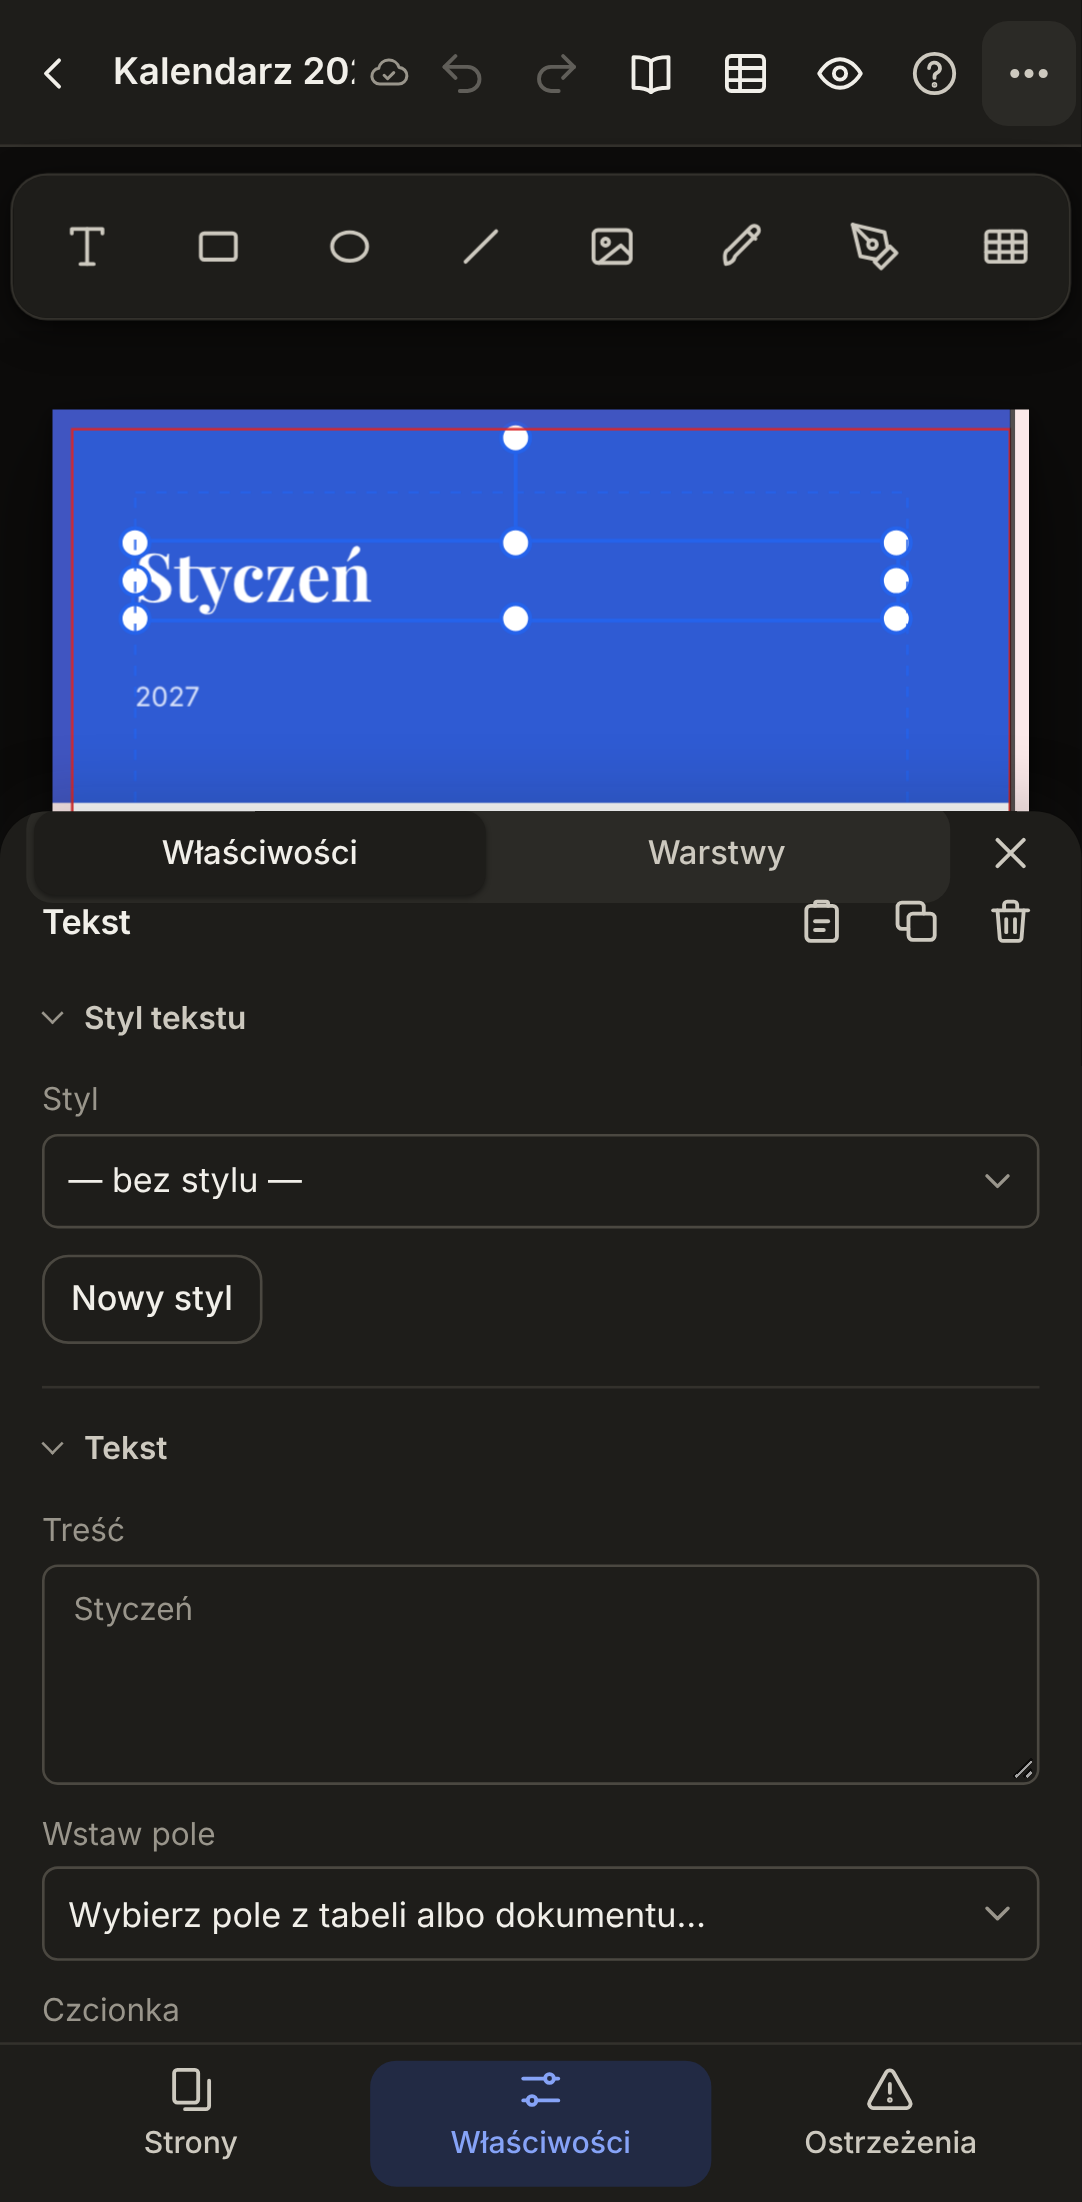
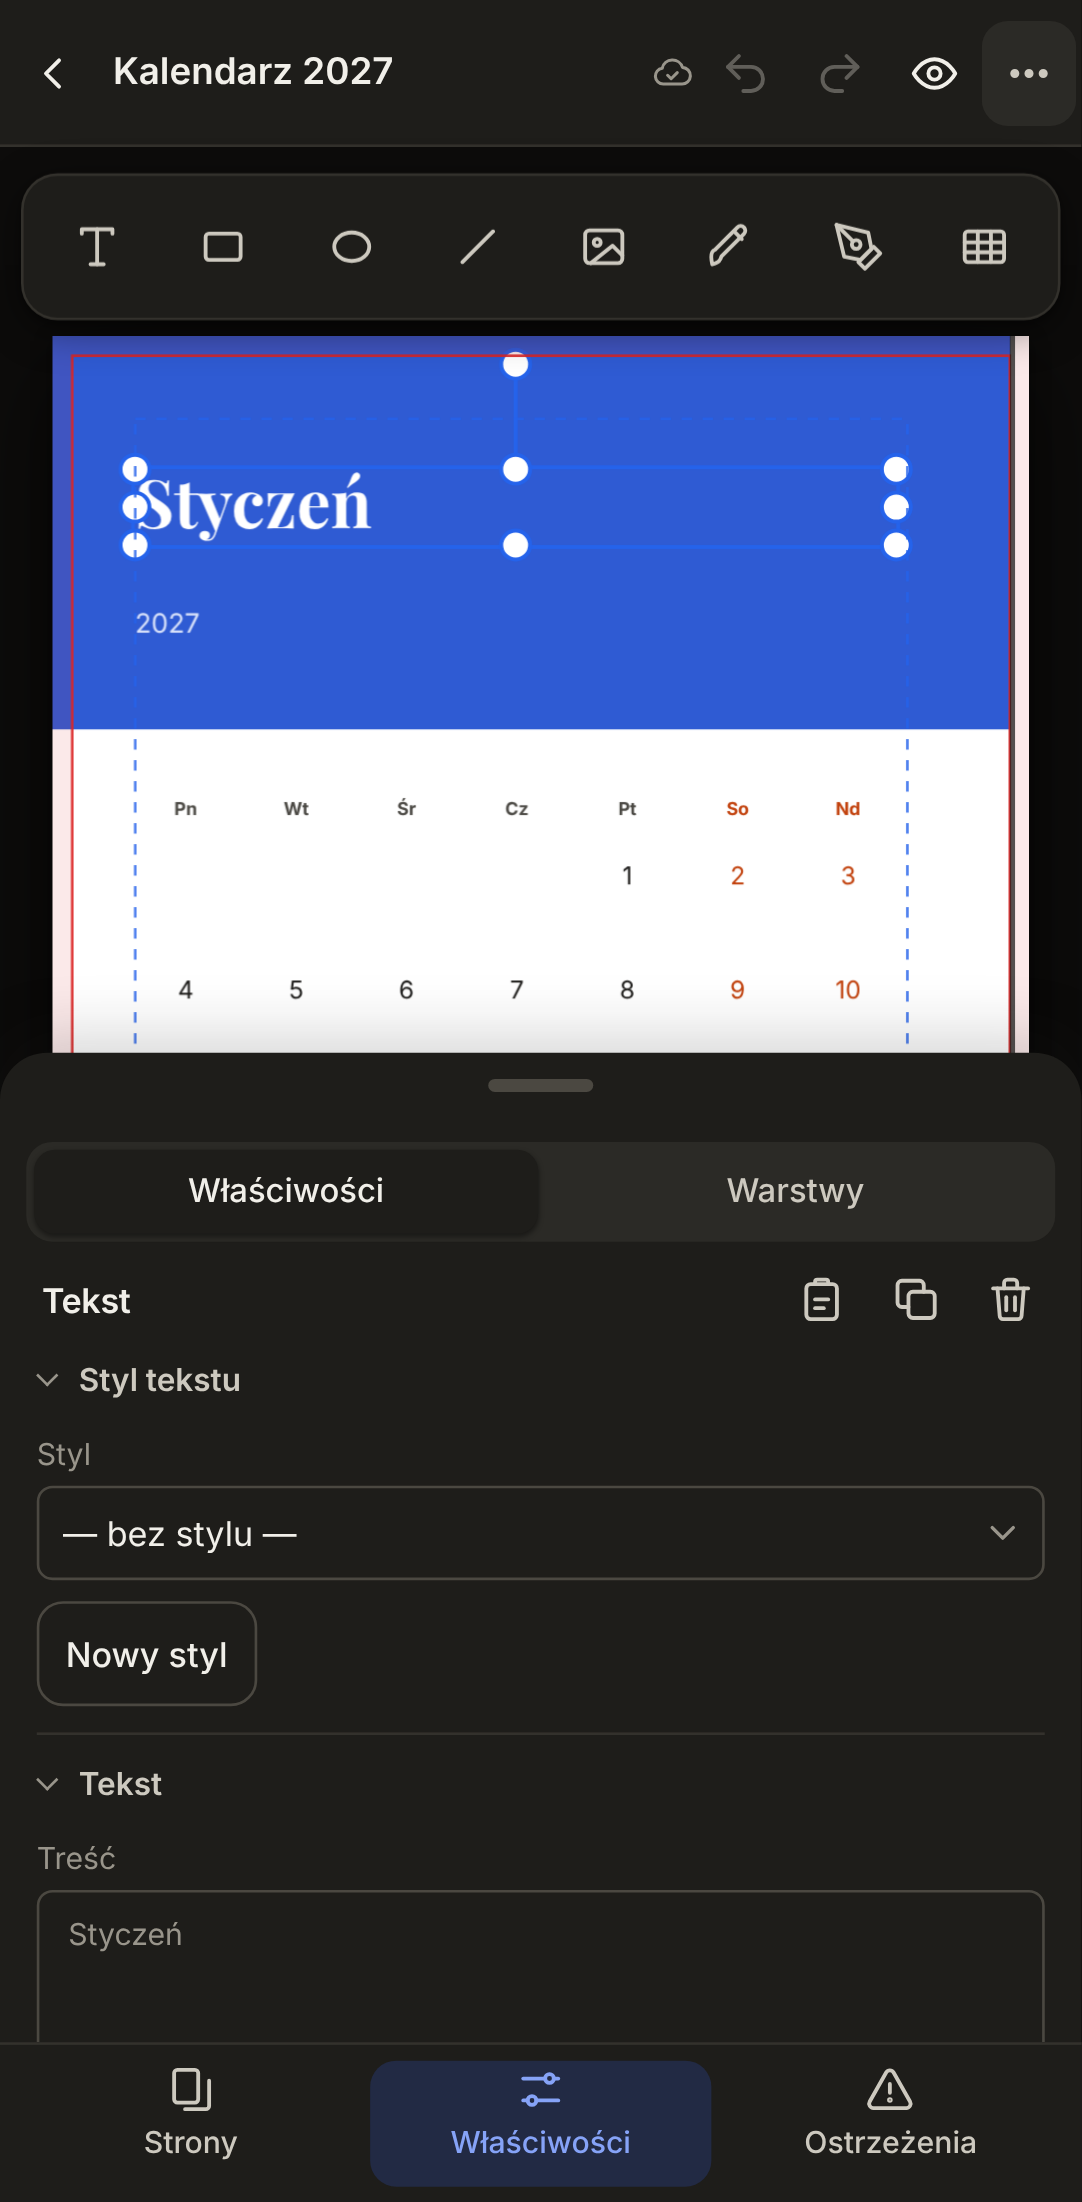
Instrukcja: uchwyt arkusza, menu ⋯ na telefonie, „Podmień zdjęcie”; nowy zrzut telefonu
Claude-Session: https://claude.ai/code/session_01RaMJ2Ntz7GzbyxDWHScWWA

diff --git a/js/instrukcja.js b/js/instrukcja.js
@@ -177,7 +177,7 @@ export const ROZDZIALY = [
       '<b>Kolejność</b> przenosi element nad lub pod inne.',
       '<b>Zablokuj położenie i rozmiar</b> chroni element przed przypadkowym przesunięciem.',
       'Ikony nad panelem: <b>kopiuj do schowka</b>, duplikuj, usuń. Skopiowany element wkleisz na innej stronie przyciskiem <b>Wklej skopiowane elementy</b> we właściwościach strony (albo <kbd>Ctrl</kbd>+<kbd>V</kbd>) – trafi w to samo miejsce.',
-      '<b>Obraz</b>: kliknij go dwa razy (albo <b>Kadruj przeciąganiem</b>), żeby wybrać widoczny fragment ramką – <kbd>Enter</kbd> zatwierdza, <kbd>Esc</kbd> anuluje. Działa także na obrazie obróconym i odbitym (na czas kadrowania obraz jest prostowany). Do tego przycięcie liczbami, obrys, odbicie i informacja o rozdzielczości (do druku 300 dpi).',
+      '<b>Obraz</b>: kliknij go dwa razy (albo <b>Kadruj przeciąganiem</b>), żeby wybrać widoczny fragment ramką – <kbd>Enter</kbd> zatwierdza, <kbd>Esc</kbd> anuluje. Działa także na obrazie obróconym i odbitym (na czas kadrowania obraz jest prostowany). Do tego przycięcie liczbami, obrys, odbicie i informacja o rozdzielczości (do druku 300 dpi). <b>Podmień zdjęcie</b> (na górze właściwości obrazu) wstawia inny plik w tę samą ramkę: rozmiar, miejsce, obrót, obrys i cień zostają, a zdjęcie o innych proporcjach wypełnia ramkę z przyciętym nadmiarem.',
       '<b>Rysunek SVG</b> wstawia się jako obraz: wygląda wiernie, ale nic się w nim nie zmieni, a napisy przeglądarka rysuje czcionką zastępczą. <b>Rozłóż rysunek na elementy</b> (we właściwościach obrazu) zamienia go w zwykłą <b>grupę kształtów i napisów</b> w tym samym miejscu: grupę można rozgrupować, kształtom zmienić kolor, obrys i punkty, a napisy poprawić jak każdy tekst. Napis zachowuje czcionkę, jeśli jest ona w zestawie aplikacji albo wśród czcionek projektu – inną zastępuje domyślna, o czym aplikacja mówi. Napis ułożony w rysunku w kilku wierszach zostaje jedną ramką z wierszami. Zdjęcie osadzone w rysunku staje się zwykłym obrazem projektu. Jeśli obraz był przycięty, grupa jest przycięta tak samo – przycięcie zdejmuje <b>Pokaż cały rysunek</b> we właściwościach grupy (po rozgrupowaniu elementy widać w całości). Rzeczy, których edytor nie ma (filtry, maski, wzory), znikają – wtedy lepiej zostawić obraz; <kbd>Ctrl</kbd>+<kbd>Z</kbd> go przywraca.',
       'Tytuły części panelu (np. <b>Cień</b>, <b>Ramka tekstu</b>) zwijają je i rozwijają. Zwinięte zostają zwinięte przy kolejnych elementach.',
     ],
@@ -555,14 +555,17 @@ export const ROZDZIALY = [
     tytul: 'Tablet, telefon i instalacja',
     wstep: 'Aplikacja działa w przeglądarce na tablecie, telefonie i komputerze. Można ją też zainstalować jak zwykły program.',
     obraz: 'telefon.png',
-    podpis: 'Telefon trzymany pionowo: strona u góry, panel wysuwa się z dołu.',
+    podpis: 'Telefon trzymany pionowo: zaznaczony element nad panelem właściwości, u góry panelu uchwyt.',
     obrazWaski: true,
     punkty: [
       '<b>Jeden palec</b> – zaznaczanie i przesuwanie elementów. <b>Dwa palce</b> – przesuwanie widoku i powiększanie.',
-      '<b>Na telefonie edytor działa w pionie.</b> Panele <b>Strony</b>, <b>Właściwości</b>, <b>Warstwy</b> i <b>Ostrzeżenia</b> otwierasz przyciskami na dole ekranu; panel wysuwa się z dołu i ma stałą wysokość, więc nie skacze, gdy przeglądarka chowa pasek adresu.',
+      '<b>Na telefonie edytor działa w pionie.</b> Panele <b>Strony</b>, <b>Właściwości</b>, <b>Warstwy</b> i <b>Ostrzeżenia</b> otwierasz przyciskami na dole ekranu; panel wysuwa się z dołu na niecałą połowę ekranu i ma stałą wysokość, więc nie skacze, gdy przeglądarka chowa pasek adresu. Widok sam przesuwa się tak, żeby zaznaczony element był widoczny nad panelem, a po zamknięciu panelu wraca na miejsce.',
+      '<b>Uchwyt</b> (kreska u góry panelu): pociągnij w górę, żeby powiększyć panel prawie na cały ekran, w dół – żeby go zmniejszyć albo zamknąć; stuknięcie przełącza wysokość. Panel zamyka też ponowne stuknięcie jego przycisku na dole ekranu – krzyżyka nie ma.',
+      'Na wąskim ekranie górny pasek zostawia miejsce na nazwę projektu: <b>Wzorce</b>, <b>Dane</b> i <b>Instrukcja</b> są w menu <b>⋯</b>. Ucięta nazwa pokazuje się w całości po stuknięciu w nią.',
+      'We właściwościach obrazu na samej górze są przyciski <b>Podmień zdjęcie</b> (nowe zdjęcie z galerii w tej samej ramce i miejscu) i <b>Wgraj obrazy do projektu</b>.',
       'Telefon trzymany poziomo pokazuje planszę „Za mało miejsca na wysokość” – pasek adresu i panele nie zostawiają wtedy miejsca na stronę. To samo zobaczysz na komputerze w bardzo niskim oknie (poniżej 480 px). Lista projektów, logowanie i udostępniony podgląd działają w obu ułożeniach.',
       '<b>Dwa szybkie stuknięcia</b> działają jak podwójne kliknięcie: zaczynają pisanie w komórce tabeli, otwierają grupę, zaczynają edycję punktów kształtu. <b>Tabela</b> i <b>pióro</b> są na pasku wstawiania także na telefonie: piórem stawiasz punkty stuknięciami, a kształt kończysz przyciskiem <b>Zakończ kształt</b> we właściwościach (albo stuknięciem w pierwszy punkt – wtedy kształt jest zamknięty). Punkty kształtu przeciągasz palcem po stuknięciu <b>Edytuj punkty</b> – przed przeciąganiem zamknij panel właściwości, żeby nie zasłaniał strony.',
-      'Na małym ekranie schowane są narzędzia, którymi trudno sterować palcem: wielokąt, kadrowanie ramką i linijki. Prowadnice wpisujesz liczbą, a obraz przytniesz liczbami we właściwościach. Na bardzo wąskim ekranie pasek wstawiania przewija się w bok.',
+      'Na małym ekranie schowane są narzędzia, którymi trudno sterować palcem: wielokąt, kadrowanie ramką i linijki. Prowadnice wpisujesz liczbą, a obraz przytniesz liczbami we właściwościach. Gdy pasek wstawiania nie zmieści się na bardzo wąskim ekranie, przewija się w bok, a jego wygaszony brzeg pokazuje, że dalej są kolejne przyciski.',
       '<b>Pełny ekran</b>: przycisk z czterema narożnikami na liście projektów, w edytorze i w podglądzie (na telefonie – w menu ⋯) chowa paski przeglądarki; <kbd>Esc</kbd> albo ten sam przycisk wraca. Na iPhonie przeglądarka nie pozwala stronie na pełny ekran – tam daje go zainstalowanie aplikacji.',
       '<b>Instalacja na Androidzie</b> (Chrome): menu ⋮ → <b>Zainstaluj aplikację</b> / <b>Dodaj do ekranu głównego</b>. Zainstalowana aplikacja nie ma paska adresu, więc na stronę zostaje więcej miejsca.',
       '<b>Instalacja na Macu</b> (Chrome lub Edge): ikona instalacji w pasku adresu. W Safari: Plik → <b>Dodaj do Docka</b>.',

diff --git a/ai/instrukcja.md b/ai/instrukcja.md
@@ -189,7 +189,7 @@ Poniżej ustawień wyglądu każdy element ma dokładne położenie i narzędzia
 - **Kolejność** przenosi element nad lub pod inne.
 - **Zablokuj położenie i rozmiar** chroni element przed przypadkowym przesunięciem.
 - Ikony nad panelem: **kopiuj do schowka**, duplikuj, usuń. Skopiowany element wkleisz na innej stronie przyciskiem **Wklej skopiowane elementy** we właściwościach strony (albo `Ctrl`+`V`) – trafi w to samo miejsce.
-- **Obraz**: kliknij go dwa razy (albo **Kadruj przeciąganiem**), żeby wybrać widoczny fragment ramką – `Enter` zatwierdza, `Esc` anuluje. Działa także na obrazie obróconym i odbitym (na czas kadrowania obraz jest prostowany). Do tego przycięcie liczbami, obrys, odbicie i informacja o rozdzielczości (do druku 300 dpi).
+- **Obraz**: kliknij go dwa razy (albo **Kadruj przeciąganiem**), żeby wybrać widoczny fragment ramką – `Enter` zatwierdza, `Esc` anuluje. Działa także na obrazie obróconym i odbitym (na czas kadrowania obraz jest prostowany). Do tego przycięcie liczbami, obrys, odbicie i informacja o rozdzielczości (do druku 300 dpi). **Podmień zdjęcie** (na górze właściwości obrazu) wstawia inny plik w tę samą ramkę: rozmiar, miejsce, obrót, obrys i cień zostają, a zdjęcie o innych proporcjach wypełnia ramkę z przyciętym nadmiarem.
 - **Rysunek SVG** wstawia się jako obraz: wygląda wiernie, ale nic się w nim nie zmieni, a napisy przeglądarka rysuje czcionką zastępczą. **Rozłóż rysunek na elementy** (we właściwościach obrazu) zamienia go w zwykłą **grupę kształtów i napisów** w tym samym miejscu: grupę można rozgrupować, kształtom zmienić kolor, obrys i punkty, a napisy poprawić jak każdy tekst. Napis zachowuje czcionkę, jeśli jest ona w zestawie aplikacji albo wśród czcionek projektu – inną zastępuje domyślna, o czym aplikacja mówi. Napis ułożony w rysunku w kilku wierszach zostaje jedną ramką z wierszami. Zdjęcie osadzone w rysunku staje się zwykłym obrazem projektu. Jeśli obraz był przycięty, grupa jest przycięta tak samo – przycięcie zdejmuje **Pokaż cały rysunek** we właściwościach grupy (po rozgrupowaniu elementy widać w całości). Rzeczy, których edytor nie ma (filtry, maski, wzory), znikają – wtedy lepiej zostawić obraz; `Ctrl`+`Z` go przywraca.
 - Tytuły części panelu (np. **Cień**, **Ramka tekstu**) zwijają je i rozwijają. Zwinięte zostają zwinięte przy kolejnych elementach.
 
@@ -602,14 +602,17 @@ Zakładka „Warstwy” w prawym panelu (obok „Właściwości”) pokazuje wsz
 
 Aplikacja działa w przeglądarce na tablecie, telefonie i komputerze. Można ją też zainstalować jak zwykły program.
 
-![Telefon trzymany pionowo: strona u góry, panel wysuwa się z dołu.](https://andrish97.github.io/book/img/instrukcja/telefon.png)
-*Telefon trzymany pionowo: strona u góry, panel wysuwa się z dołu.*
+![Telefon trzymany pionowo: zaznaczony element nad panelem właściwości, u góry panelu uchwyt.](https://andrish97.github.io/book/img/instrukcja/telefon.png)
+*Telefon trzymany pionowo: zaznaczony element nad panelem właściwości, u góry panelu uchwyt.*
 
 - **Jeden palec** – zaznaczanie i przesuwanie elementów. **Dwa palce** – przesuwanie widoku i powiększanie.
-- **Na telefonie edytor działa w pionie.** Panele **Strony**, **Właściwości**, **Warstwy** i **Ostrzeżenia** otwierasz przyciskami na dole ekranu; panel wysuwa się z dołu i ma stałą wysokość, więc nie skacze, gdy przeglądarka chowa pasek adresu.
+- **Na telefonie edytor działa w pionie.** Panele **Strony**, **Właściwości**, **Warstwy** i **Ostrzeżenia** otwierasz przyciskami na dole ekranu; panel wysuwa się z dołu na niecałą połowę ekranu i ma stałą wysokość, więc nie skacze, gdy przeglądarka chowa pasek adresu. Widok sam przesuwa się tak, żeby zaznaczony element był widoczny nad panelem, a po zamknięciu panelu wraca na miejsce.
+- **Uchwyt** (kreska u góry panelu): pociągnij w górę, żeby powiększyć panel prawie na cały ekran, w dół – żeby go zmniejszyć albo zamknąć; stuknięcie przełącza wysokość. Panel zamyka też ponowne stuknięcie jego przycisku na dole ekranu – krzyżyka nie ma.
+- Na wąskim ekranie górny pasek zostawia miejsce na nazwę projektu: **Wzorce**, **Dane** i **Instrukcja** są w menu **⋯**. Ucięta nazwa pokazuje się w całości po stuknięciu w nią.
+- We właściwościach obrazu na samej górze są przyciski **Podmień zdjęcie** (nowe zdjęcie z galerii w tej samej ramce i miejscu) i **Wgraj obrazy do projektu**.
 - Telefon trzymany poziomo pokazuje planszę „Za mało miejsca na wysokość” – pasek adresu i panele nie zostawiają wtedy miejsca na stronę. To samo zobaczysz na komputerze w bardzo niskim oknie (poniżej 480 px). Lista projektów, logowanie i udostępniony podgląd działają w obu ułożeniach.
 - **Dwa szybkie stuknięcia** działają jak podwójne kliknięcie: zaczynają pisanie w komórce tabeli, otwierają grupę, zaczynają edycję punktów kształtu. **Tabela** i **pióro** są na pasku wstawiania także na telefonie: piórem stawiasz punkty stuknięciami, a kształt kończysz przyciskiem **Zakończ kształt** we właściwościach (albo stuknięciem w pierwszy punkt – wtedy kształt jest zamknięty). Punkty kształtu przeciągasz palcem po stuknięciu **Edytuj punkty** – przed przeciąganiem zamknij panel właściwości, żeby nie zasłaniał strony.
-- Na małym ekranie schowane są narzędzia, którymi trudno sterować palcem: wielokąt, kadrowanie ramką i linijki. Prowadnice wpisujesz liczbą, a obraz przytniesz liczbami we właściwościach. Na bardzo wąskim ekranie pasek wstawiania przewija się w bok.
+- Na małym ekranie schowane są narzędzia, którymi trudno sterować palcem: wielokąt, kadrowanie ramką i linijki. Prowadnice wpisujesz liczbą, a obraz przytniesz liczbami we właściwościach. Gdy pasek wstawiania nie zmieści się na bardzo wąskim ekranie, przewija się w bok, a jego wygaszony brzeg pokazuje, że dalej są kolejne przyciski.
 - **Pełny ekran**: przycisk z czterema narożnikami na liście projektów, w edytorze i w podglądzie (na telefonie – w menu ⋯) chowa paski przeglądarki; `Esc` albo ten sam przycisk wraca. Na iPhonie przeglądarka nie pozwala stronie na pełny ekran – tam daje go zainstalowanie aplikacji.
 - **Instalacja na Androidzie** (Chrome): menu ⋮ → **Zainstaluj aplikację** / **Dodaj do ekranu głównego**. Zainstalowana aplikacja nie ma paska adresu, więc na stronę zostaje więcej miejsca.
 - **Instalacja na Macu** (Chrome lub Edge): ikona instalacji w pasku adresu. W Safari: Plik → **Dodaj do Docka**.
